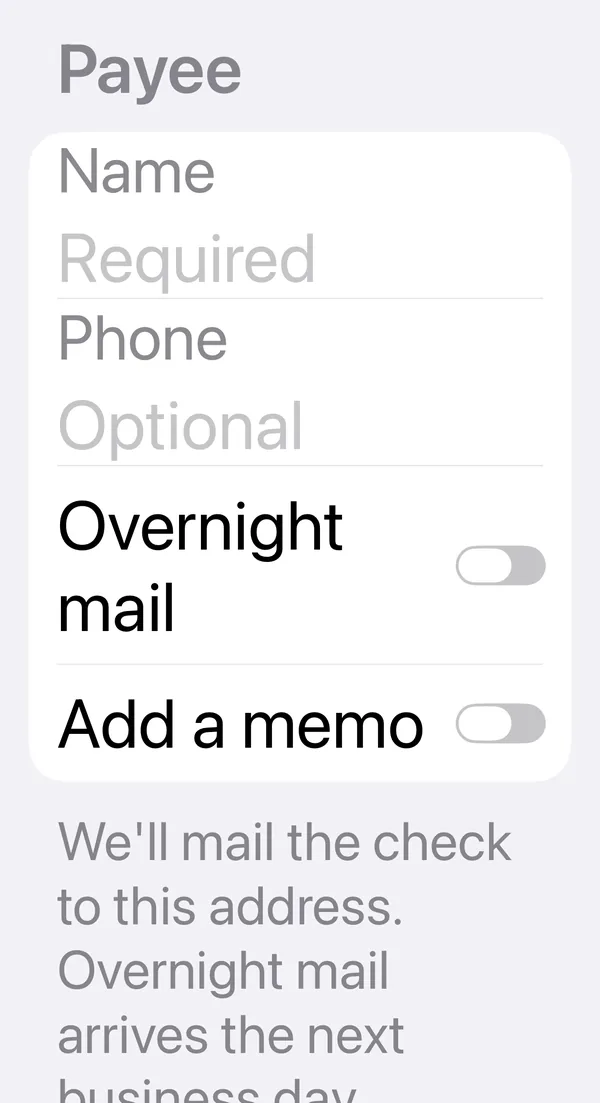
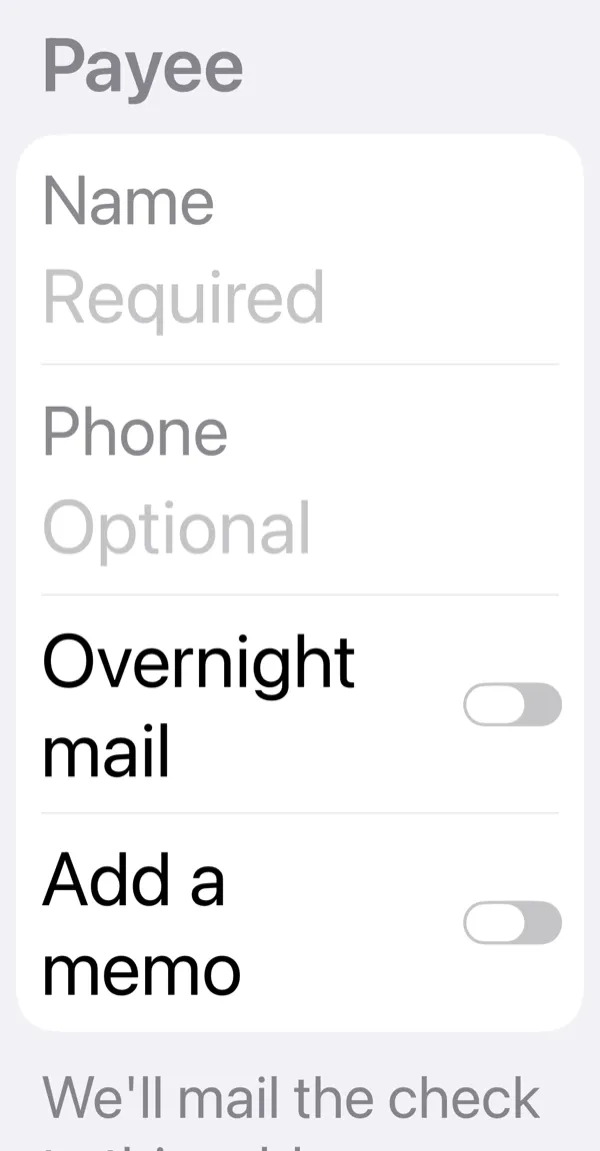
docs(form-section): show the stacked TextField rows' margins at AX5

diff --git a/docs/docs/components/formsection.md b/docs/docs/components/formsection.md
@@ -9,7 +9,7 @@ It is a JavaScript component: a `View` with the native controls inside it.
 
 | iOS 26 | iOS 26, dark | iOS 26, the largest text size |
 | --- | --- | --- |
-| ![A Payee section on iOS 26: a header, a rounded white card with Name and Phone fields beside their labels and two switch rows, separators between the rows, and a footer below the card; then a Delivery confirmation section with a switch, a carrier menu and a checkbox](/img/components/formsection/light-ios.webp) | ![The same sections in dark mode: dark gray cards on black](/img/components/formsection/dark-ios.webp) | ![The same Payee section at the largest accessibility text size: the field labels above their fields, the switch rows taller for their wrapped labels, and the footer wrapping over several lines](/img/components/formsection/ax5-ios.webp) |
+| ![A Payee section on iOS 26: a header, a rounded white card with Name and Phone fields beside their labels and two switch rows, separators between the rows, and a footer below the card; then a Delivery confirmation section with a switch, a carrier menu and a checkbox](/img/components/formsection/light-ios.webp) | ![The same sections in dark mode: dark gray cards on black](/img/components/formsection/dark-ios.webp) | ![The same Payee section at the largest accessibility text size: the field labels above their fields with the rows' margins kept, the switch rows taller for their wrapped labels, and the footer wrapping over several lines](/img/components/formsection/ax5-ios.webp) |
 
 ```tsx
 import {
@@ -81,7 +81,7 @@ The section has no margins of its own: place it with `style` or its parent's pad
 
 ### Large text
 
-At the accessibility text sizes the rows grow with their text and the separators stay at the rows' edges. A TextField's leading label moves above its field, as in Apple's lists (see [Grouped forms on iOS](/components/textfield#grouped-forms-on-ios)), and the header and footer wrap. `maxFontSizeMultiplier` caps the header and footer; the rows' own components have their own `maxFontSizeMultiplier`.
+At the accessibility text sizes the rows grow with their text and the separators stay at the rows' edges. A TextField's leading label moves above its field, and its row keeps its margins above the label and below the field, as in Apple's lists (see [Grouped forms on iOS](/components/textfield#grouped-forms-on-ios)), and the header and footer wrap. `maxFontSizeMultiplier` caps the header and footer; the rows' own components have their own `maxFontSizeMultiplier`.
 
 ### Accessibility
 
